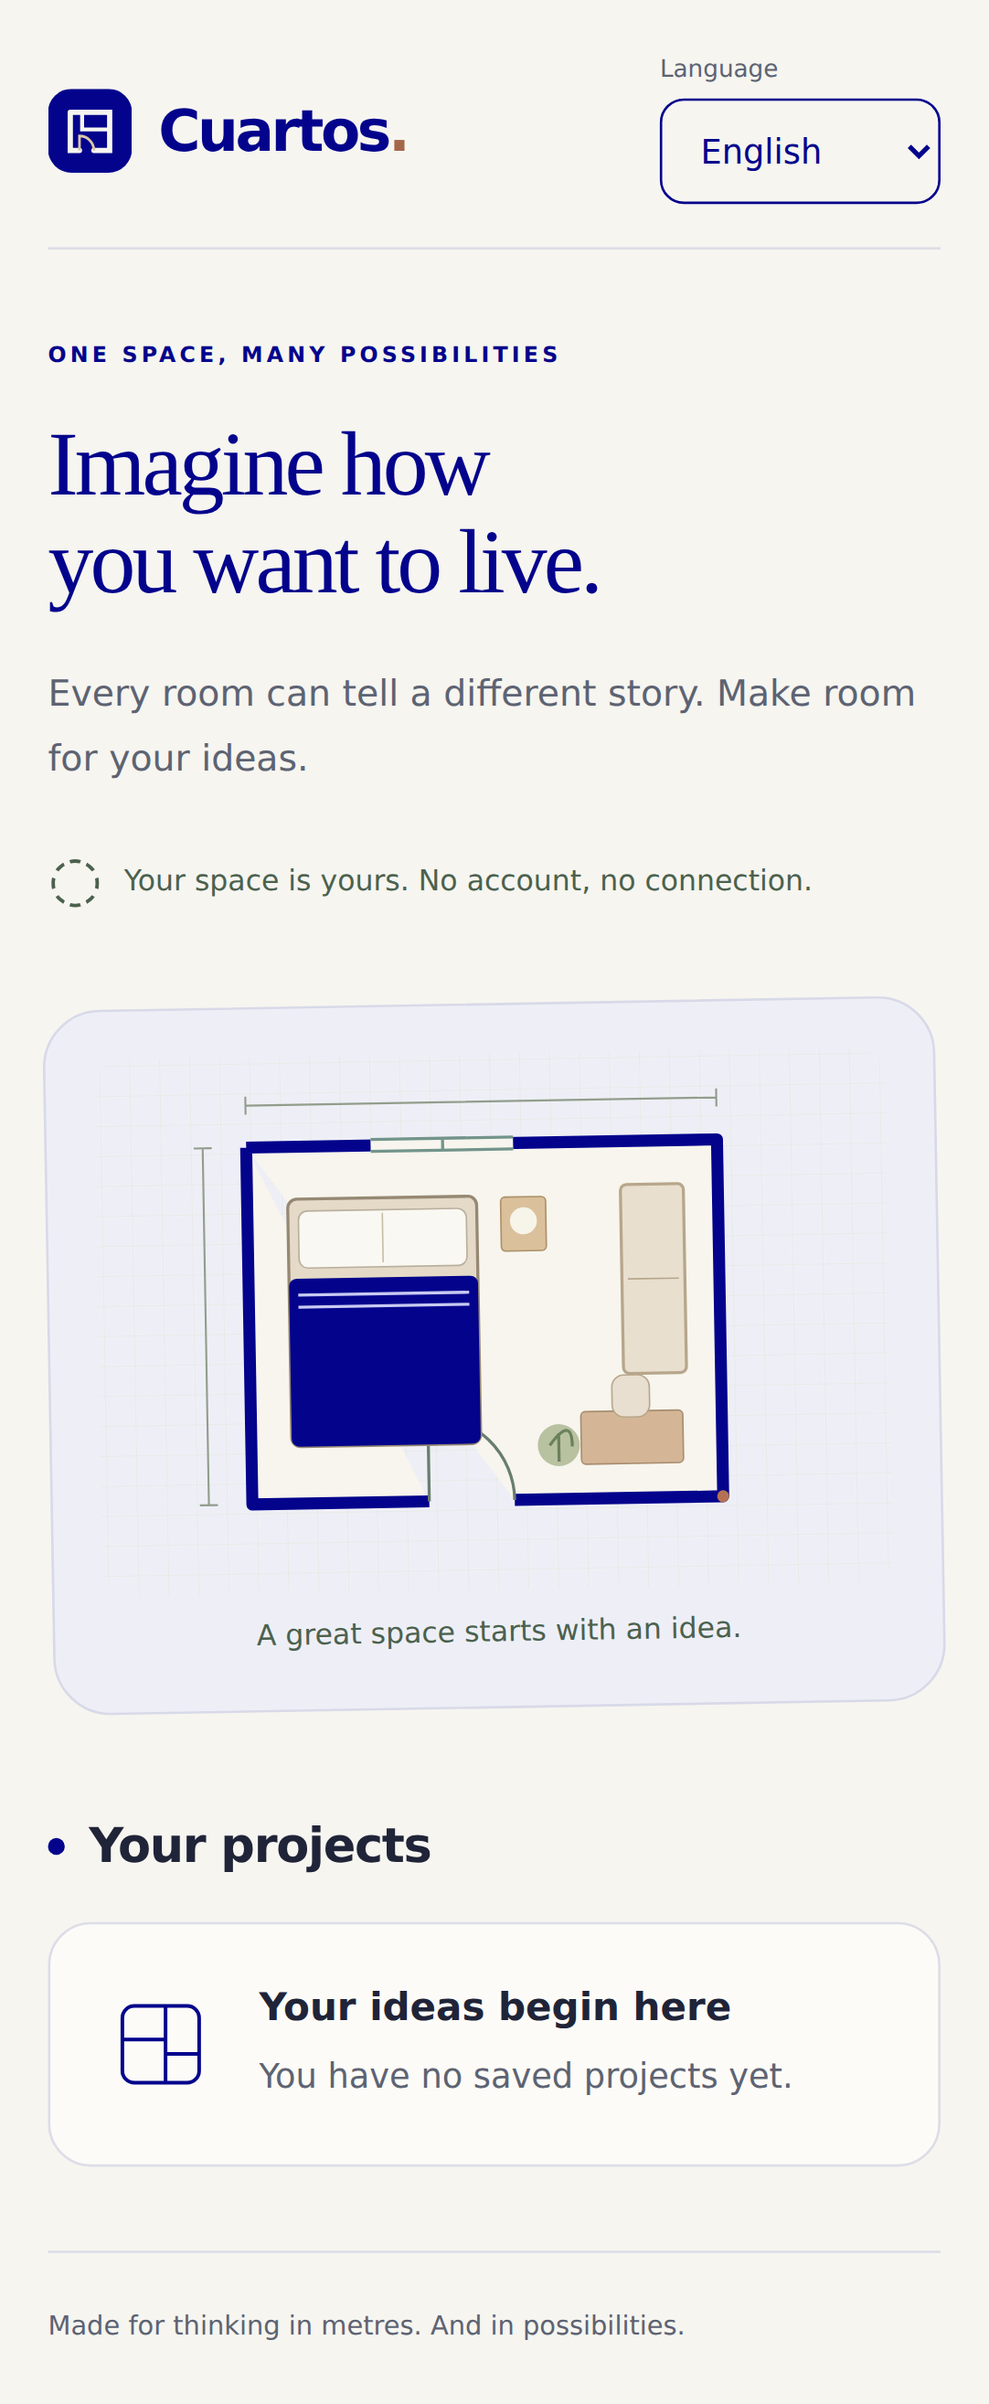
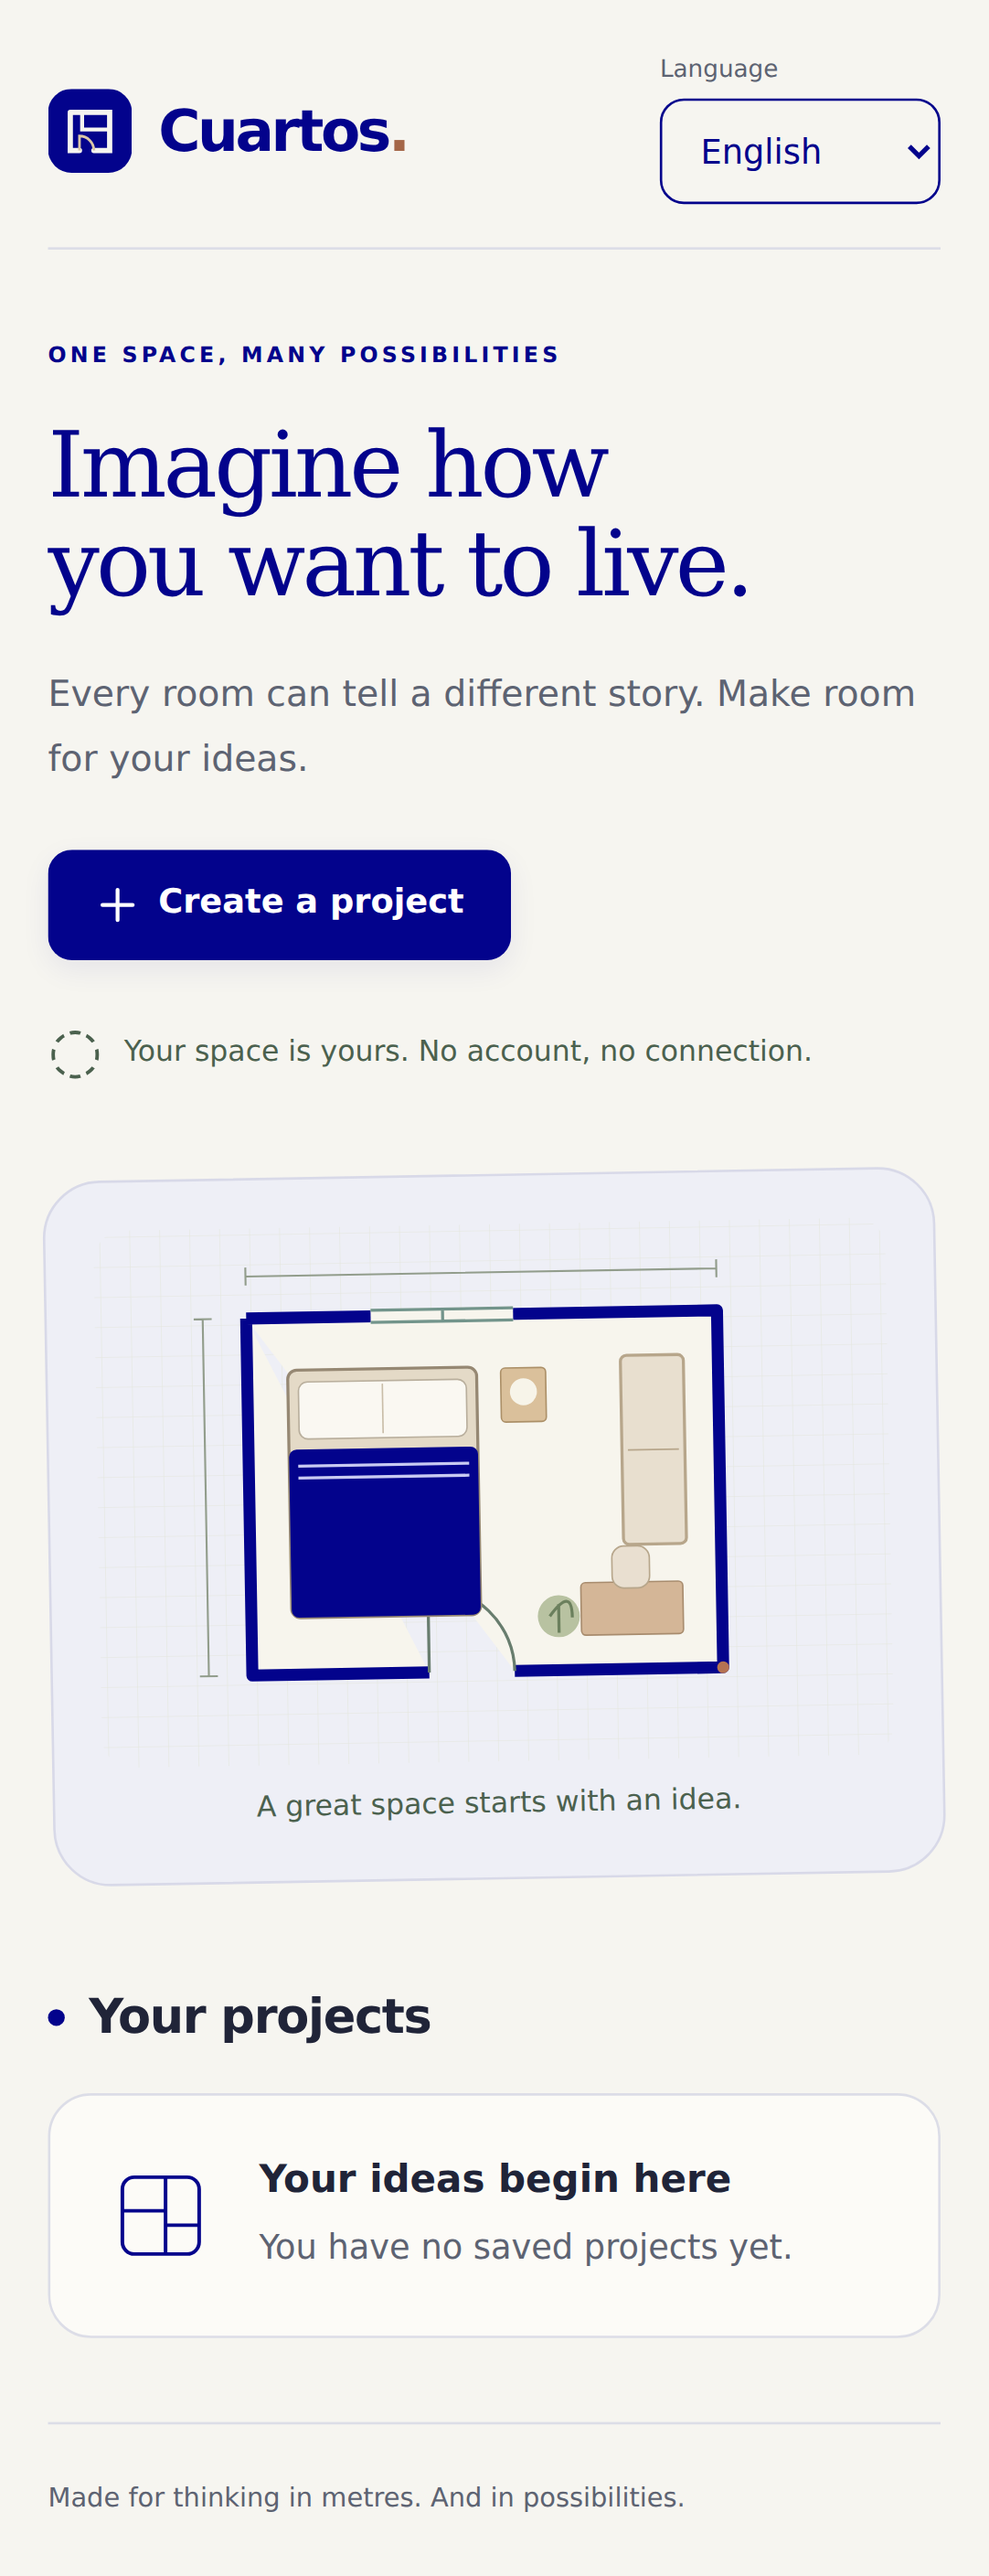
Revisar capturas y evitar descargas apt redundantes en pruebas headless

diff --git a/src/app/App.tsx b/src/app/App.tsx
@@ -85,7 +85,7 @@ export function App() {
             <p className="eyebrow">{t('home.eyebrow')}</p>
             <h1 id="welcome-title" ref={homeHeading} tabIndex={-1}>{t('home.title')}</h1>
             <p className="intro">{t('home.description')}</p>
-            <button type="button" className="button button-primary create-button" disabled={opening !== null} onClick={() => setScreen('create')}><span aria-hidden="true">＋</span> {t('home.create')}</button>
+            <button type="button" className="button button-primary create-button" disabled={opening !== null} onClick={() => setScreen('create')}><svg viewBox="0 0 20 20" width="18" height="18" aria-hidden="true"><path d="M10 3v14M3 10h14" fill="none" stroke="currentColor" strokeWidth="1.8" strokeLinecap="round" /></svg>{t('home.create')}</button>
             <p className="local-note"><span aria-hidden="true">◌</span>{t('home.localNote')}</p>
           </div>
           <figure className="plan-card">
@@ -100,7 +100,7 @@ export function App() {
           {unreadable && !loading && <p className="error-notice" role="alert">{t('storage.unreadable')}</p>}
           {openError && <p className="error-notice" role="alert">{t('storage.openError')}</p>}
           {cards.length > 0 ? <ul className="project-list">{cards.map(card => <li key={card.id}><button type="button" className="project-card" disabled={opening !== null} onClick={() => { void openProject(card.id) }} aria-label={`${t('home.open')}: ${card.name}`}>
-            <span className="project-card-icon" aria-hidden="true">▱</span><span className="project-card-copy"><strong>{card.name}</strong><span>{card.roomName}{card.roomName && ' · '}{new Intl.NumberFormat(i18n.resolvedLanguage, { maximumFractionDigits: 4 }).format(card.area)} m²</span><small>{t('home.savedLocally')}</small></span><span className="project-card-arrow" aria-hidden="true">↗</span>
+            <span className="project-card-icon" aria-hidden="true">▱</span><span className="project-card-copy"><strong>{card.name}</strong><span>{card.roomName}{card.roomName && ' · '}{new Intl.NumberFormat(i18n.resolvedLanguage, { maximumFractionDigits: 2 }).format(card.area)} m²</span><small>{t('home.savedLocally')}</small></span><span className="project-card-arrow" aria-hidden="true">↗</span>
           </button></li>)}</ul> : !loading && !listError && <div className="empty-state">
             <svg viewBox="0 0 48 48" width="48" height="48" aria-hidden="true"><rect x="8" y="8" width="32" height="32" rx="5" fill="none" stroke="currentColor" strokeWidth="1.5" /><path d="M8 22h18V8m0 14v18m0-12h14" fill="none" stroke="currentColor" strokeWidth="1.5" /></svg>
             <div><h3>{t('home.emptyTitle')}</h3><p>{t('home.emptyDescription')}</p></div>

diff --git a/src/app/styles.css b/src/app/styles.css
@@ -62,7 +62,7 @@ button:disabled { cursor: wait; opacity: .65; }
 .button-secondary:hover:not(:disabled), .button-quiet:hover:not(:disabled) { background: #eaeaf4; }
 .button-quiet { background: transparent; color: var(--primary); }
 .create-button { margin-top: 25px; }
-.create-button span { font-size: 19px; line-height: 1; }
+.create-button svg { flex-shrink: 0; }
 .sr-only { position: absolute; width: 1px; height: 1px; padding: 0; margin: -1px; overflow: hidden; clip-path: inset(50%); white-space: nowrap; border: 0; }
 .page-title { font-size: clamp(34px, 4.5vw, 51px); max-width: 750px; margin-bottom: 16px; overflow-wrap: anywhere; }
 h1:focus, .page-title:focus { outline: none; }
@@ -96,7 +96,7 @@ h1:focus, .page-title:focus { outline: none; }
 .preview-placeholder { min-height: 220px; display: grid; place-items: center; padding: 30px; color: var(--muted); text-align: center; line-height: 1.7; }
 .unit-options { display: flex; flex-wrap: wrap; gap: 18px; padding: 0; margin: 0 0 26px; border: 0; }
 .unit-options legend { margin-bottom: 12px; font-size: 14px; font-weight: 600; }
-.unit-options label { display: flex; align-items: center; gap: 7px; font-size: 13px; min-height: 30px; cursor: pointer; }
+.unit-options label { display: flex; align-items: center; gap: 7px; font-size: 13px; min-height: 44px; cursor: pointer; }
 .unit-options input { accent-color: var(--primary); width: 18px; height: 18px; margin: 0; }
 .measure-fields { display: grid; grid-template-columns: repeat(3, minmax(0, 1fr)); gap: 14px; }
 .measure-fields .form-field { margin: 0; }

diff --git a/src/projects/CreateProjectWizard.tsx b/src/projects/CreateProjectWizard.tsx
@@ -97,7 +97,7 @@ export function CreateProjectWizard({ onCancel, onCreated }: { onCancel: () => v
             <figure className="creation-preview">
               {width !== null && depth !== null ? <RoomPreview width={width} depth={depth} /> : <div className="preview-placeholder">{t('wizard.previewPending')}</div>}
               <figcaption>{t('wizard.previewCaption')}</figcaption>
-              {width !== null && depth !== null && <p className="area-preview">{format(width * depth)} <span>m² · {t('room.area')}</span></p>}
+              {width !== null && depth !== null && <p className="area-preview">{new Intl.NumberFormat(i18n.resolvedLanguage, { maximumFractionDigits: 2 }).format(width * depth)} <span>m² · {t('room.area')}</span></p>}
             </figure>
           </div>
         </fieldset>

diff --git a/src/projects/ProjectSummary.tsx b/src/projects/ProjectSummary.tsx
@@ -23,7 +23,7 @@ export function ProjectSummary({ project, onBack }: { project: Project; onBack: 
             <div><dt>{t('wizard.width')}</dt><dd>{format(width)} m</dd></div>
             <div><dt>{t('wizard.depth')}</dt><dd>{format(depth)} m</dd></div>
             <div><dt>{t('wizard.height')}</dt><dd>{format(room.height)} m</dd></div>
-            <div><dt>{t('room.area')}</dt><dd>{format(polygonArea(room.polygon))} m²</dd></div>
+            <div><dt>{t('room.area')}</dt><dd>{new Intl.NumberFormat(i18n.resolvedLanguage, { maximumFractionDigits: 2 }).format(polygonArea(room.polygon))} m²</dd></div>
           </dl>
           <p className="form-help">{t('room.summaryNote')}</p>
         </div>

diff --git a/docs/STATUS.md b/docs/STATUS.md
@@ -49,14 +49,16 @@ Etapa 4 integrada en PR #6, commit `466cb249b8d88269149b1f3991d606f880971fb5`. C
 
 ## Etapa 5 · Crear y reabrir una habitación
 
-Issue: [#7](https://github.com/carlossan1993/cuartos-android/issues/7). Se considera cerrada después de revisión técnica, CI verde y merge de su PR.
+Issue: [#7](https://github.com/carlossan1993/cuartos-android/issues/7). Entrega: [PR #8](https://github.com/carlossan1993/cuartos-android/pull/8). Se considera cerrada después de revisión técnica, CI verde y merge del PR.
 
 - Asistente en dos pasos: nombre de proyecto/habitación y medidas interiores de un rectángulo.
 - Metros/centímetros, coma/punto decimal, errores ES/EN y conservación de entradas al corregir o retroceder.
 - Vista previa y resumen proporcionales con ancho, fondo, altura y superficie reales. Sin gestos ni edición del plano todavía.
 - Guardado mínimo Dexie/IndexedDB: crear, listar y reabrir; escritura confirmada antes de publicar en el store.
 - Errores de lectura/escritura traducidos con reintento; registros inválidos conservados sin modificaciones.
-- 94 pruebas unitarias correctas; typecheck, lint y build web correctos en local. Los E2E teléfono/tablet, capturas y APK Android se verifican en el PR antes de integrar.
+- 94 pruebas unitarias y ocho E2E teléfono/tablet correctos en local; typecheck, lint y build web correctos. Se revisaron las capturas ES/EN de inicio, asistente, resumen y lista de proyectos.
+- Evidencia visual: asistente en [teléfono EN](screenshots/wizard-phone.png) y [tablet ES](screenshots/wizard-tablet.png); resumen en [teléfono EN](screenshots/room-phone.png) y [tablet ES](screenshots/room-tablet.png). Las capturas de inicio también están actualizadas.
+- QA local con Chromium 153 obtenido como herramienta temporal fuera de las dependencias del proyecto. CI conserva el Chromium fijado por Playwright. La [primera ejecución](https://github.com/carlossan1993/cuartos-android/actions/runs/39854810292) pasó código/pruebas/build y agotó el tiempo en descargas apt de fuentes/dependencias de Ubuntu. Se limita la instalación al navegador headless; los checks finales web/Android y APK se registran en el PR antes de integrar.
 
 Alcance y verificaciones manuales pendientes: [STORAGE](STORAGE.md). Autosave/gestión completa en etapa 13; editor interactivo en etapa 6.
 

diff --git a/README.md b/README.md
@@ -47,6 +47,8 @@ Los recursos de inicio, estilos, traducciones e iconos se incluyen en el paquete
 
 Evidencia de la pantalla inicial: [teléfono en inglés](docs/screenshots/home-phone.png) · [tablet en español](docs/screenshots/home-tablet.png). La ilustración es decorativa; no es todavía el editor interactivo.
 
+Creación de habitación: [asistente](docs/screenshots/wizard-tablet.png) y [resumen guardado](docs/screenshots/room-tablet.png).
+
 ## Trabajo y verificación
 
 - [Cómo contribuir](CONTRIBUTING.md).
